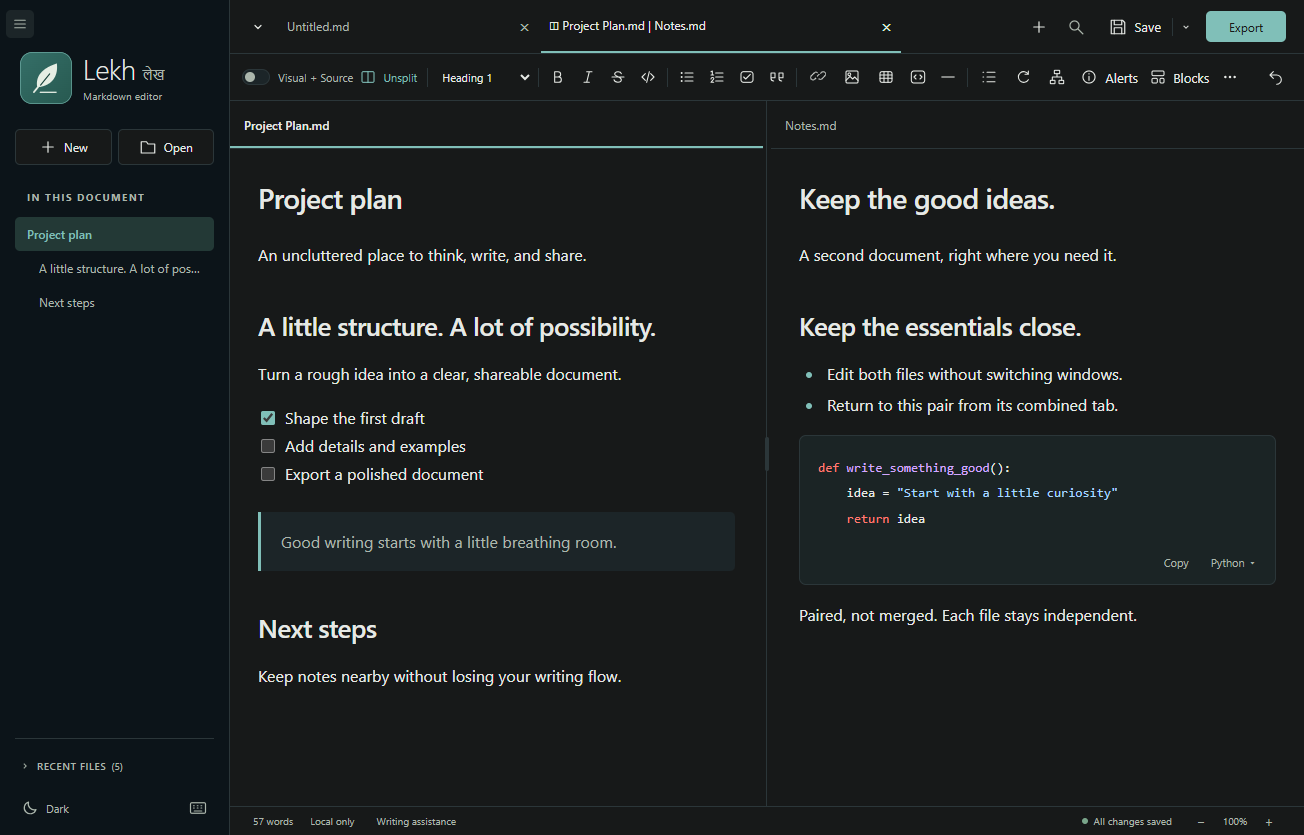
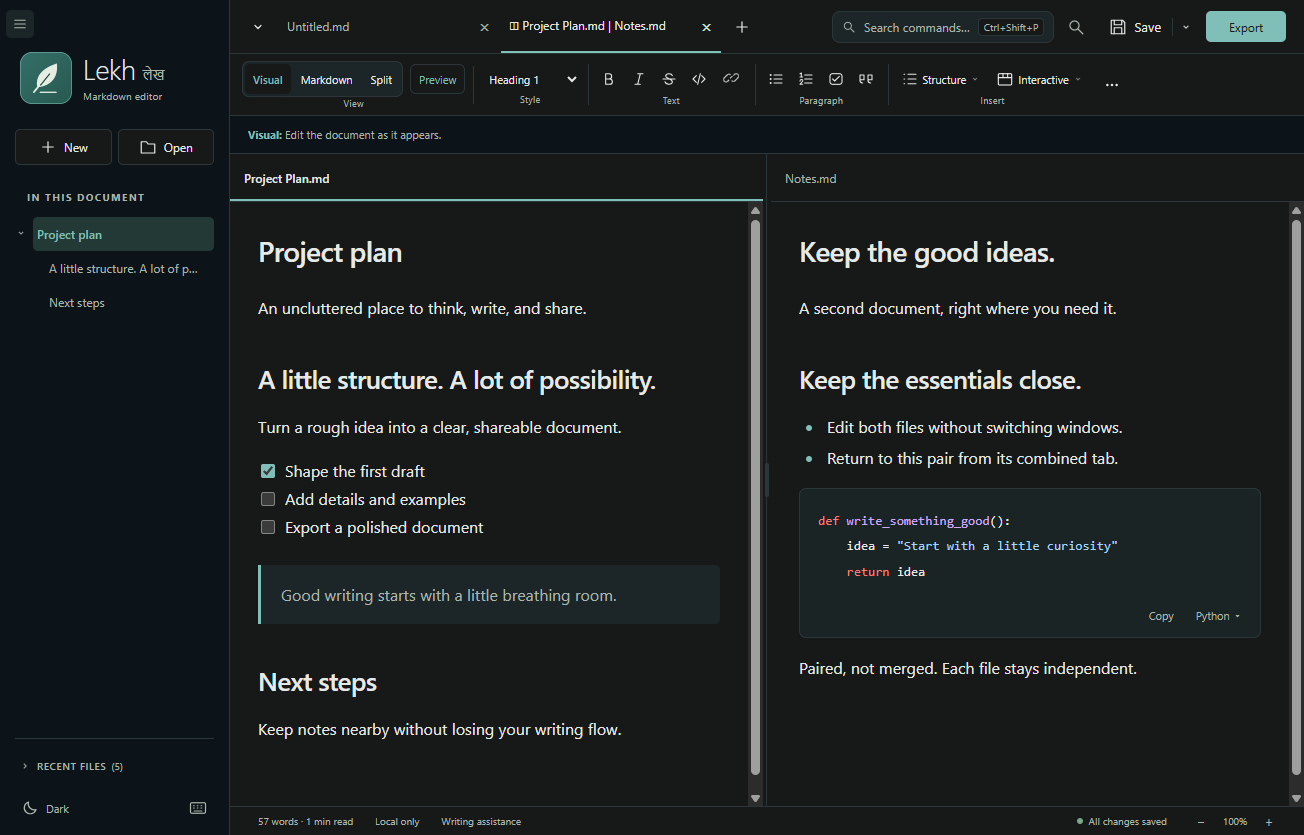
Refresh Lekh features and screenshots from latest release

diff --git a/site/lekh/index.html b/site/lekh/index.html
@@ -4,14 +4,14 @@
   <meta charset="utf-8">
   <meta name="viewport" content="width=device-width, initial-scale=1">
   <title>Lekh - Markdown editor for Windows</title>
-  <meta name="description" content="A free, local-first Windows Markdown editor with editable Visual + Source, offline Mermaid diagrams, and Word/PDF export. Explore screenshots and downloads.">
+  <meta name="description" content="A free, local-first Markdown editor for Windows. Write visually, use publishing blocks and local includes, and export interactive HTML, Word, or PDF offline.">
   <meta name="theme-color" content="#111416">
   <link rel="canonical" href="https://dennispadia.github.io/lekh/">
   <link rel="icon" href="../assets/lekh.svg" type="image/svg+xml">
   <meta property="og:type" content="website">
   <meta property="og:site_name" content="Dennis Padia">
   <meta property="og:title" content="Lekh - Write locally. See clearly.">
-  <meta property="og:description" content="Editable Visual + Source, offline diagrams, and Word/PDF export. Free and MIT licensed. Windows x64; unsigned installer.">
+  <meta property="og:description" content="Visual and Markdown editing, publishing blocks, local includes, and interactive HTML, Word, or PDF export. Free and offline. Windows x64; unsigned installer.">
   <meta property="og:url" content="https://dennispadia.github.io/lekh/">
   <meta property="og:image" content="https://dennispadia.github.io/assets/images/publishing-split-dark.png">
   <meta property="og:image:alt" content="Lekh in Dark theme with an editable document beside its Markdown source.">
@@ -19,7 +19,7 @@
   <meta property="og:image:height" content="935">
   <meta name="twitter:card" content="summary_large_image">
   <meta name="twitter:title" content="Lekh - Markdown editor">
-  <meta name="twitter:description" content="A free Windows Markdown editor with offline diagrams and Word/PDF export. MIT licensed, with feedback welcome through GitHub issues.">
+  <meta name="twitter:description" content="Write visually, keep exact Markdown, and export interactive HTML, Word, or PDF offline. Free and MIT licensed, with feedback welcome through GitHub issues.">
   <meta name="twitter:image" content="https://dennispadia.github.io/assets/images/publishing-split-dark.png">
   <script type="application/ld+json">
   {
@@ -27,7 +27,7 @@
     "@type": "SoftwareApplication",
     "name": "Lekh - Markdown editor",
     "url": "https://dennispadia.github.io/lekh/",
-    "description": "A local-first Windows Markdown editor with editable Visual + Source, offline Mermaid diagrams, and Word/PDF export.",
+    "description": "A local-first Windows Markdown editor with Visual and Markdown editing, publishing blocks, local includes, offline Mermaid diagrams, and interactive HTML, Word, or PDF export.",
     "applicationCategory": "UtilitiesApplication",
     "operatingSystem": "Windows 10/11 x64",
     "isAccessibleForFree": true,
@@ -121,7 +121,7 @@
         <img class="app-mark" src="../assets/lekh.svg" width="64" height="64" alt="">
         <p class="eyebrow">Windows x64 &nbsp; / &nbsp; Markdown editor &nbsp; / &nbsp; MIT licensed</p>
         <h1 id="product-heading">Lekh<span>.</span></h1>
-        <p class="lead">A calm space for Markdown. Write visually or in Source, edit both side by side, bring ideas to life with offline diagrams, and export your work to Word or PDF.</p>
+        <p class="lead">A calm, local-first Markdown editor for Windows. Write visually, keep exact Markdown, and build technical documents with diagrams, publishing blocks, and local includes. Share interactive HTML, editable Word, or print-ready PDF, all offline.</p>
         <div class="actions">
           <a class="button" href="https://github.com/dennispadia/lekh/releases/latest">Get the Windows installer &nearr;</a>
           <a class="button button--secondary" href="https://github.com/dennispadia/lekh">Explore the source &nearr;</a>
@@ -138,11 +138,19 @@
         <div class="gallery">
           <figure>
             <img class="screenshot" src="../assets/images/lekh-dark-split.png" width="1304" height="835" loading="lazy" decoding="async" alt="Lekh in Dark theme with two documents in paired panes, including a checklist and a code block.">
-            <figcaption>Keep reference notes and a draft side by side in a paired tab.</figcaption>
+            <figcaption>Keep reference notes and a draft side by side with a resizable divider.</figcaption>
           </figure>
           <figure>
-            <img class="screenshot" src="../assets/images/alerts-light.png" width="1344" height="1055" loading="lazy" decoding="async" alt="Lekh in Light theme showing editable Note, Tip, Important, Caution, and Warning alerts.">
-            <figcaption>Use editable alerts to highlight notes, tips, and warnings.</figcaption>
+            <img class="screenshot" src="../assets/images/slash-menu.png" width="1304" height="835" loading="lazy" decoding="async" alt="Lekh in Dark theme with the slash menu open, showing headings, lists, and block descriptions.">
+            <figcaption>Type / on an empty Visual line to insert a block without leaving the keyboard.</figcaption>
+          </figure>
+          <figure>
+            <img class="screenshot" src="../assets/images/export-panel.png" width="1304" height="835" loading="lazy" decoding="async" alt="Lekh in Light theme recommending interactive HTML and disabling Word and PDF for a document with tabbed examples and variants.">
+            <figcaption>The export panel recommends HTML for interactive content and explains format limitations.</figcaption>
+          </figure>
+          <figure>
+            <img class="screenshot" src="../assets/images/block-toolbar.png" width="1304" height="835" loading="lazy" decoding="async" alt="Lekh in Dark theme with a floating move, duplicate, and remove toolbar beside a paragraph and a collapsible heading outline.">
+            <figcaption>Rearrange blocks with the floating toolbar and navigate sections from the outline.</figcaption>
           </figure>
         </div>
       </section>
@@ -150,13 +158,22 @@
         <h2 id="features-heading">Made for writing locally.</h2>
         <p class="section-intro">No account, analytics, or document uploads. The offline installer includes the desktop runtime; Windows 10/11 x64 and .NET Framework 4.8 or newer are required. Node.js, Word, and Pandoc are not required.</p>
         <div class="features">
-          <article class="feature"><h3>Visual or source. Your choice.</h3><p>Write with formatting, lists, tables, and checkboxes, or edit exact Markdown in Source. Visual + Source lets you edit both side by side; Source + Preview adds a read-only rendering alongside your text.</p></article>
-          <article class="feature"><h3>Two documents. One workspace.</h3><p>Open multiple tabs, pair two files, resize the divider, and work independently in either pane. Light and Dark themes and Focus mode keep the workspace adaptable.</p></article>
-          <article class="feature"><h3>Diagrams, without a service.</h3><p>Render supported Mermaid diagrams locally in Visual and Preview. Supported diagrams become images in Word and PDF exports.</p></article>
-          <article class="feature"><h3>Share beyond Markdown.</h3><p>Export the active document to Word or PDF, including supported images, syntax-highlighted code, and diagrams. Export does not save the Markdown file.</p></article>
-          <article class="feature"><h3>Find, replace, and navigate.</h3><p>Search with case, whole-word, and regex options, use capture-group replacements, follow the heading outline, and refresh a generated table of contents.</p></article>
-          <article class="feature"><h3>Your files stay yours.</h3><p>Choose embedded images or relative assets. Unsaved-change prompts, external-edit detection, atomic saves, and recovery drafts help protect work. Recovery is not a backup.</p></article>
+          <article class="feature"><h3>Visual, Markdown, and Split.</h3><p>Edit formatted content or exact Markdown, or keep both editable side by side. Interactive Preview lets you try tabs and variants as a reader, with optional editable Markdown alongside it.</p></article>
+          <article class="feature"><h3>Commands at your fingertips.</h3><p>Press Ctrl+Shift+P to search commands, or type / on an empty Visual line to insert blocks. Move, duplicate, and remove blocks from the floating toolbar; collapse or rearrange whole sections in the outline.</p></article>
+          <article class="feature"><h3>Publishing blocks, in place.</h3><p>Write inside alerts, rename tabbed examples, add variant selectors and content, and edit YAML metadata. Publishing controls stay with the document while preserving their Markdown syntax.</p></article>
+          <article class="feature"><h3>Reuse local Markdown.</h3><p>Insert local includes through Structure &gt; Include. Preview and exports expand authorized content without rewriting the parent source. Review include relationships and consumers with permission-scoped folder access.</p></article>
+          <article class="feature"><h3>Review without rewriting.</h3><p>Optional Learn checks help review alt text, metadata, local paths, and publishing blocks with source-line navigation. Offline English grammar suggestions are reviewed by you, never applied automatically.</p></article>
+          <article class="feature"><h3>Diagrams, without a service.</h3><p>Render Mermaid diagrams offline alongside rich Markdown, tables, task lists, and syntax-highlighted code. Supported diagrams are included in HTML, Word, and PDF exports.</p></article>
+          <article class="feature"><h3>Share beyond Markdown.</h3><p>Export unsaved edits from the active document to self-contained interactive HTML, editable Word, or print-ready PDF. Tabs and variants require HTML; the export panel explains which formats are available.</p></article>
+          <article class="feature"><h3>A workspace that adapts.</h3><p>Open multiple documents, pair two files with a resizable divider, and search with case, whole-word, or regex options. Light and Graphite + Teal Dark themes, coordinated icons and dialogs, zoom, and Focus mode keep work comfortable.</p></article>
+          <article class="feature"><h3>Your files stay yours.</h3><p>No accounts, uploads, cloud sync, or analytics. Remote images are never downloaded, and external links need confirmation. Unsaved-change prompts, external-edit detection, atomic saves, and recovery drafts help protect work. Recovery is not a backup.</p></article>
         </div>
+      </section>
+      <section class="policy" id="exports" aria-labelledby="exports-heading">
+        <h2 id="exports-heading">Choose the right export.</h2>
+        <p><strong>Interactive HTML</strong> packs supported images and diagrams into one offline file, with clickable tabs, switchable variants, and heading navigation. For documents containing tabbed examples or variants, including those in local includes, HTML is recommended and Word and PDF are disabled.</p>
+        <p><strong>Word</strong> keeps supported content editable and reflows in the recipient's application. <strong>PDF</strong> uses A4 pages, 20 mm margins, print-friendly colors, and heading bookmarks. Neither format is a pixel-identical copy of the editor.</p>
+        <p>YAML metadata stays out of article text. Remote images and missing or unauthorized includes stop export with a clear error. Convert WebP images before Word export; math and footnotes are not rendered as formatted output. Export never saves or changes your Markdown file. See <a class="text-link" href="https://github.com/dennispadia/lekh/blob/main/docs/USER_GUIDE.md#images-and-exports">images and export limitations</a>.</p>
       </section>
       <section id="download" aria-labelledby="download-heading">
         <div class="download-panel">
@@ -164,9 +181,10 @@
           <h2 id="download-heading">Install once. Write locally.</h2>
           <ol>
             <li>Open the latest release and download the Windows x64 setup EXE. The same release provides a source ZIP and SHA-256 checksums.</li>
-            <li>Verify the download against the published checksums, then run the EXE to install for your current Windows user.</li>
+            <li>Verify the download against the published checksums, then run the EXE. A fresh install starts immediately for your current Windows user; no administrator access is needed.</li>
             <li>Open Lekh from the desktop or Start menu. No account is needed.</li>
           </ol>
+          <p>Upgrading? Setup upgrades a closed copy automatically. If Lekh is running, save and close it, then choose <strong>Check again</strong>. Settings and recovery drafts are preserved; the same version is reported as already installed and downgrades are blocked.</p>
           <div class="actions">
             <a class="button" href="https://github.com/dennispadia/lekh/releases/latest">Installer, source ZIP &amp; checksums &nearr;</a>
             <a class="button button--secondary" href="https://github.com/dennispadia/lekh/blob/main/docs/USER_GUIDE.md">Read the user guide &nearr;</a>

diff --git a/site/index.html b/site/index.html
@@ -141,7 +141,7 @@
             <div><div class="project-name"><img src="assets/sap-framework.svg" width="44" height="44" alt=""><h3>SAP Testing Automation Framework <span aria-hidden="true">&nearr;</span></h3></div><p>An open-source framework for validating SAP on Azure configurations, high availability, and backup and recovery.</p><p class="meta">Microsoft project &nbsp; / &nbsp; SAP on Azure &nbsp; / &nbsp; Open source</p></div>
           </a>
           <a class="project" href="/lekh/">
-            <div><div class="project-name"><img src="assets/lekh.svg" width="44" height="44" alt=""><h3>Lekh - Markdown editor <span aria-hidden="true">&nearr;</span></h3></div><p>A local-first Markdown editor with live preview, diagrams, and Word/PDF export.</p><p class="meta">Windows x64 &nbsp; / &nbsp; Free &amp; MIT licensed</p></div>
+            <div><div class="project-name"><img src="assets/lekh.svg" width="44" height="44" alt=""><h3>Lekh - Markdown editor <span aria-hidden="true">&nearr;</span></h3></div><p>A local-first Markdown editor with publishing blocks, diagrams, and HTML, Word, or PDF export.</p><p class="meta">Windows x64 &nbsp; / &nbsp; Free &amp; MIT licensed</p></div>
           </a>
         </div>
       </section>

diff --git a/README.md b/README.md
@@ -12,7 +12,10 @@ no build dependencies, analytics, cookies, or external font/image requests.
 
 - [Homepage](site/index.html): content, metadata, structured data, and responsive styles.
 - [Lekh page](site/lekh/index.html): features, application
-  screenshots, installation and safety notes, and links to the latest release.
+  screenshots, Visual/Markdown editing, publishing blocks, local includes and
+  review tools, HTML/Word/PDF export limitations, installation and safety notes,
+  and links to the latest release. Refresh screenshots from the released Lekh
+  repository's `docs/images` and keep image dimensions and captions accurate.
 - [Public assets](site/assets): font and license, icons, text-only social card, and app screenshots.
 - [Sitemap](site/sitemap.xml) and [crawler policy](site/robots.txt).
 - [Validation](tests/site.test.mjs): links, metadata, identity, project order, privacy, and asset checks.
